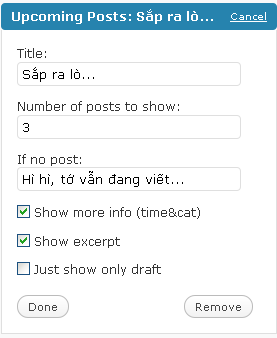
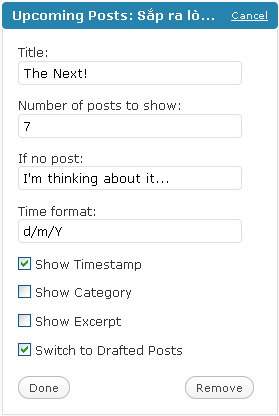
update to ver 1.2
git-svn-id: https://plugins.svn.wordpress.org/upcoming-posts/trunk@91009 b8457f37-d9ea-0310-8a92-e5e31aec5664

diff --git a/ucp.css b/ucp.css
@@ -4,8 +4,20 @@
 }
 #ucp_content ul li{
 }
-.ucp_excerpt {
+.ucp_showtitle {
+	font-weight: bold;
+}
+.ucp_showtime {
 	font-size: 10px;
-	font-family: arial,tahome,vernada;
+	line-height: 10px;
+	text-decoration: underline;
+}
+.ucp_showcat {
+	font-size: 10px;
+	line-height: 10px;
+	text-decoration: underline;
+}
+.ucp_showexcerpt {
+	font-size: 10px;
 	line-height: 10px;
 }

diff --git a/ucp_install.php b/ucp_install.php
@@ -1,0 +1,142 @@
+<?php
+/*
+Plugin Name: Upcoming Posts
+Plugin URI: http://mrlive.org/2009/01/plugin-dau-tay-upcoming-posts/
+Version: 1.2
+Description: Create a widget which shows all of your scheduled posts to notice your readers for coming back intime.
+Author: MrLive
+Author URI: http://mrlive.org
+*/
+function ucp_headaction()
+{
+	echo '<link rel="stylesheet" href="'.PLUGINDIR.'/'.dirname( plugin_basename(__FILE__) ).'/ucp.css" type="text/css" />';
+}
+
+function ucp_control_gen($ucp_title, $ucp_num, $ucp_nopost, $ucp_time ,$show_time, $show_cat, $show_excerpt,$just_draft)  /* setup */
+{
+?>
+<p>
+	<label for="ucp-title"><?php _e('Title:'); ?>
+		<input class="widefat" id="ucp-title" name="ucp-title" type="text" value="<?php echo attribute_escape($ucp_title); ?>"	/>
+	</label>
+</p>
+<p>
+	<label for="ucp-num"><?php _e('Number of posts to show:'); ?>
+		<input class="widefat" id="ucp-num" name="ucp-num" type="text" value="<?php echo attribute_escape($ucp_num); ?>"	/>
+	</label>
+</p>
+<p>
+	<label for="ucp_nopost"><?php _e('If no post:'); ?>
+		<input class="widefat" id="ucp-nopost" name="ucp-nopost" type="text" value="<?php echo attribute_escape($ucp_nopost); ?>"	/>
+	</label>
+</p>
+<p>
+	<label for="ucp_time"><?php _e('Time format:'); ?>
+		<input class="widefat" id="ucp-time" name="ucp-time" type="text" value="<?php echo attribute_escape($ucp_time); ?>"	/>
+	</label>
+</p>
+<p>
+	<label for="show-time">
+		<input class="checkbox" type="checkbox"
+			id="show-time" name="show-time"
+			<?php echo $show_time ? 'checked="checked"' : ''; ?>
+		/>
+		<?php _e('Show Timestamp'); ?>
+	</label>
+</p>
+<p>
+	<label for="show-cat">
+		<input class="checkbox" type="checkbox"
+			id="show-cat" name="show-cat"
+			<?php echo $show_cat ? 'checked="checked"' : ''; ?>
+		/>
+		<?php _e('Show Category'); ?>
+	</label>
+</p>
+<p>
+	<label for="show-excerpt">
+		<input class="checkbox" type="checkbox"
+			id="show-excerpt" name="show-excerpt"
+			<?php echo $show_excerpt ? 'checked="checked"' : ''; ?>
+		/>
+		<?php _e('Show Excerpt'); ?>
+	</label>
+</p>
+<p>
+	<label for="just-draft">
+		<input class="checkbox" type="checkbox"
+			id="just-draft" name="just-draft"
+			<?php echo $just_draft ? 'checked="checked"' : ''; ?>
+		/>
+		<?php _e('Switch to Drafted Posts'); ?>
+	</label>
+</p>
+<input type="hidden"   id="ucp-widget-submit" name="ucp-widget-submit"   value="1"/>
+<?php
+}
+
+function ucp_control() {
+	$options = $newoptions = get_option('ucp_content_gen');
+	if ($_POST['ucp-widget-submit']) {
+			$newoptions['ucp-title'] = strip_tags(stripslashes($_POST['ucp-title']));
+			$newoptions['ucp-num'] = strip_tags(stripslashes($_POST['ucp-num']));
+			$newoptions['ucp-nopost'] = strip_tags(stripslashes($_POST['ucp-nopost']));
+			$newoptions['ucp-time'] = strip_tags(stripslashes($_POST['ucp-time']));
+			$newoptions['show-time'] = isset($_POST['show-time']);
+			$newoptions['show-cat'] = isset($_POST['show-cat']);
+			$newoptions['show-excerpt'] = isset($_POST['show-excerpt']);
+			$newoptions['just-draft'] = isset($_POST['just-draft']);
+	}
+
+	if ($options != $newoptions) {
+		$options = $newoptions;
+		update_option('ucp_content_gen', $options);
+	}
+
+	ucp_control_gen(
+		$options['ucp-title'],
+		$options['ucp-num'],
+		$options['ucp-nopost'],
+		$options['ucp-time'],
+		$options['show-time'],
+		$options['show-cat'],
+		$options['show-excerpt'],
+		$options['just-draft']);
+}
+
+
+function ucp_content_gen($args)  /* show content */
+{
+	extract($args);
+	$options = get_option('ucp_content_gen');
+	$ucp_title =empty($options['ucp-title']) ?
+		__('Upcoming Posts') :
+		$options['ucp-title'];
+	$ucp_num =empty($options['ucp-num']) ?
+		__('2') :
+		$options['ucp-num'];
+	$ucp_nopost =empty($options['ucp-nopost']) ?
+		__('I am thinking about it...') :
+		$options['ucp-nopost'];
+	$ucp_time =empty($options['ucp-time']) ?
+		__('d.m.Y') :
+		$options['ucp-time'];
+	$show_time = $options['show-time'] ? true: false;
+	$show_cat = $options['show-cat'] ? true: false;
+	$show_excerpt = $options['show-excerpt'] ? true: false;
+	$just_draft = $options['just-draft'] ? true: false;
+	echo $before_widget ;
+	echo $before_title . $ucp_title . $after_title;
+	include(PLUGINDIR.'/'.dirname( plugin_basename(__FILE__) ).'/ucp_widget.php');
+	echo $after_widget;
+}
+
+function ucp_init() /* register */
+{
+	register_sidebar_widget(__('Upcoming Posts'),'ucp_content_gen');
+	register_widget_control(__('Upcoming Posts'),'ucp_control');
+}
+add_action("plugins_loaded", "ucp_init");
+add_action("wp_head","ucp_headaction");
+
+?>

diff --git a/ucp_widget.php b/ucp_widget.php
@@ -1,0 +1,24 @@
+<?php
+	if ($just_draft) {$ucp_post_status = draft;}else {$ucp_post_status = future;}
+	$takethem = new WP_Query("post_status=$ucp_post_status&order=ASC&showposts=$ucp_num");
+	if ($takethem->have_posts()){ while ($takethem->have_posts()) :$takethem->the_post();	$do_not_duplicate = $post->ID;?>
+			<span id="ucp_content">
+				<ul>
+					<li>
+						<span class="ucp_showtitle"><?php the_title(); ?></span>
+						<div class="ucp_showtime"><?php if ($show_time) {the_time("$ucp_time");}?></div>
+						<div class="ucp_showcat"><?php if ($show_cat) {the_category(', ');} ?></div>
+						<div class="ucp_showexcerpt"><?php if ($show_excerpt) {the_excerpt();} ?></div>
+					</li>
+				</ul>
+			</span>
+	<?php endwhile; } 
+	else { ?>
+					<ul>
+						<li><?php echo $ucp_nopost; ?></li>
+					</ul>	
+	<?php } ?>
+	
+
+
+
